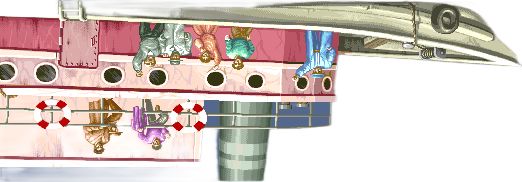
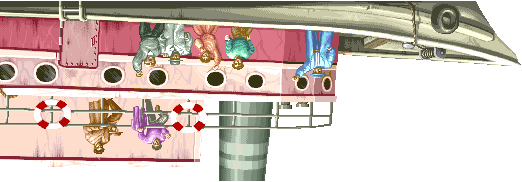
Changed ship texture and coordinates.

diff --git a/MVR.Unisinos.ProcessamentoGrafica.Desafio05/main.cpp b/MVR.Unisinos.ProcessamentoGrafica.Desafio05/main.cpp
@@ -122,9 +122,12 @@ int main()
 		"out vec4 frag_color;"
 		"void main(){"
 		"   vec4 textel = texture(basic_texture, text_map);"
-		"   if(textel.a < 0.01){ discard;}"
+		"   if(textel.a < 0.5){ discard;}"
 		"   frag_color = textel;"
 		"}";
+	
+	glEnable(GL_DEPTH_TEST);
+	glDepthFunc(GL_LESS);
 
 	int vertexShaderId = glCreateShader(GL_VERTEX_SHADER);
 	glShaderSource(vertexShaderId, 1, &vertexShaderSourceCode, NULL);
@@ -158,7 +161,7 @@ int main()
 	background_02->Translate(0, HEIGHT - 72);
 
 	Sprite* background_03 = CreateBackgroundLayer("ken_stage_03_2.png", shaderProgram, 0.52f);
-	background_03->Translate(0, HEIGHT - 176 - 62);
+	background_03->Translate(0, HEIGHT - 176 - 77);
 
 	Sprite* background_04 = CreateBackgroundLayer("ken_stage_04_2.png", shaderProgram, 0.53f);
 	background_04->Translate(550, HEIGHT - 130);
